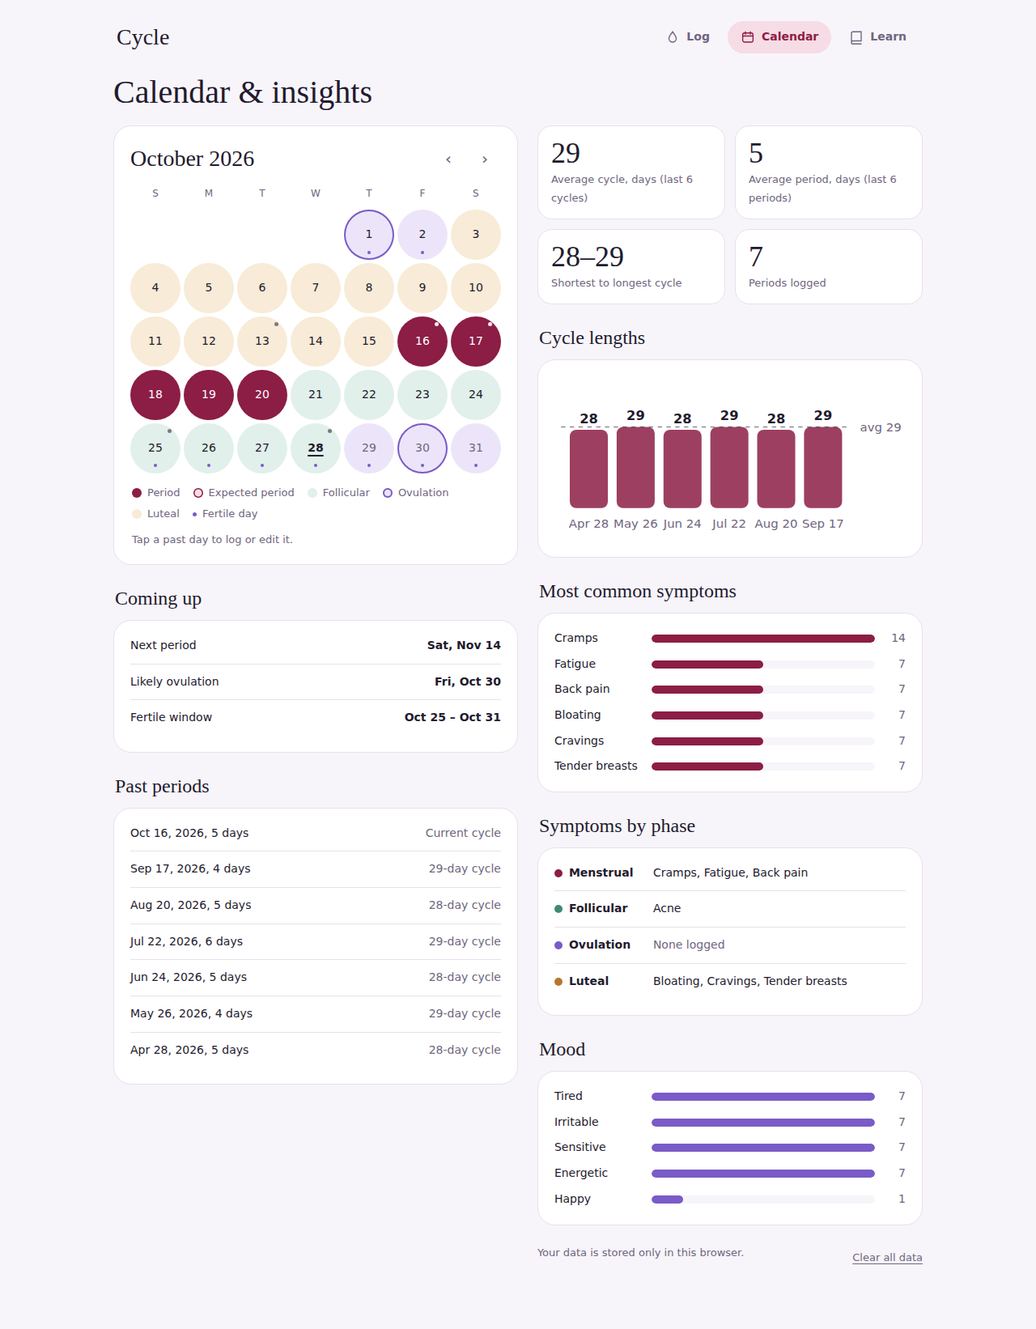
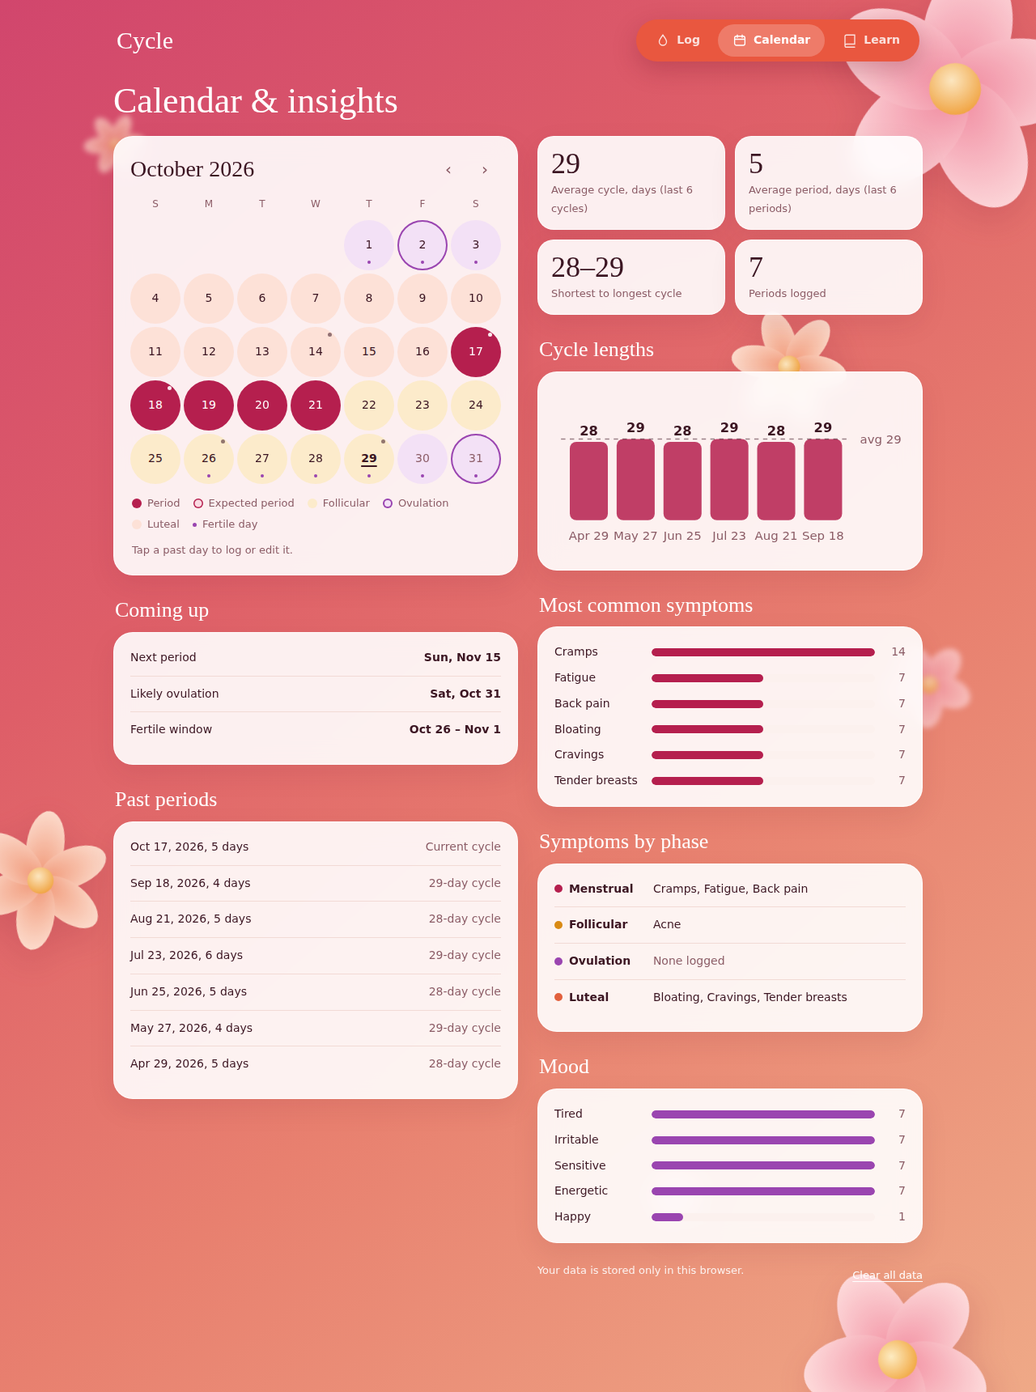
updated BG colours and design

diff --git a/index.html b/index.html
@@ -10,78 +10,117 @@
 <link rel="preconnect" href="https://fonts.gstatic.com" crossorigin>
 <link href="https://fonts.googleapis.com/css2?family=Instrument+Serif&family=Manrope:wght@400;500;600;700&display=swap" rel="stylesheet">
 <style>
+/* Palette: rose → coral → peach, after a warm gradient reference */
 :root{
-  --bg:#F7F5FA; --surface:#FFFFFF; --ink:#231A2E; --muted:#6F6580; --line:#E6E0EC;
-  --period:#8C1D45; --period-soft:#F6DCE5; --on-period:#FFFFFF;
-  --foll:#3F8A73; --foll-soft:#E1F0EA;
-  --ovu:#7A5BC7; --ovu-soft:#ECE5FA;
-  --lut:#B7772A; --lut-soft:#F8EBD7;
+  --grad:linear-gradient(140deg,#D1466D 0%,#DE5E68 32%,#E8806F 62%,#EFA987 100%);
+  --on-grad:#FFFFFF; --on-grad-soft:rgba(255,255,255,.88);
+  --card:rgba(255,255,255,.9); --card-line:rgba(255,255,255,.7);
+  --bg:#FCF1EE; --surface:#FFFFFF; --ink:#3B1522; --muted:#8B5C66; --line:#F2DAD5;
+  --accent:#E9573F; --accent-ink:#C8304F;
+  --period:#B51F4E; --period-soft:#FADAE2; --on-period:#FFFFFF;
+  --foll:#D98A14; --foll-soft:#FCEBCB;
+  --ovu:#9A45B0; --ovu-soft:#F3E1F6;
+  --lut:#E2603D; --lut-soft:#FDE1D7;
+  --track:rgba(255,255,255,.38);
+  --petal-a:#FFE0E4; --petal-b:#F38FA6; --petal-c:#FFE7D6; --petal-d:#F4A27F; --flower-o:.9;
   color-scheme:light;
   box-sizing:border-box;
   padding-top:env(safe-area-inset-top,0px);
 }
 @media (prefers-color-scheme:dark){
   :root:not([data-theme="light"]){
-    --bg:#16111C; --surface:#211A29; --ink:#F1EBF6; --muted:#A79CB4; --line:#352C40;
-    --period:#E2577F; --period-soft:#4A2132; --on-period:#1A0F15;
-    --foll:#6CC2A6; --foll-soft:#1F3530; --ovu:#A68BEA; --ovu-soft:#2E2643; --lut:#E0A65A; --lut-soft:#3A2C1C;
+    --grad:linear-gradient(140deg,#3A0F22 0%,#521A2E 40%,#682A2D 72%,#764131 100%);
+    --on-grad:#FFF3F0; --on-grad-soft:rgba(255,243,240,.82);
+    --card:rgba(40,17,27,.88); --card-line:rgba(255,255,255,.08);
+    --bg:#22101A; --surface:#2E1520; --ink:#FCEDEA; --muted:#D4A8AF; --line:#4A2834;
+    --accent:#CB4630; --accent-ink:#FF9DB2;
+    --period:#F2708F; --period-soft:#55202F; --on-period:#25070F;
+    --foll:#F2B652; --foll-soft:#46331A; --ovu:#CC8DE3; --ovu-soft:#3D2447; --lut:#F68C6C; --lut-soft:#4C2A22;
+    --track:rgba(255,255,255,.14);
+    --flower-o:.38;
     color-scheme:dark;
   }
 }
 :root[data-theme="dark"]{
-  --bg:#16111C; --surface:#211A29; --ink:#F1EBF6; --muted:#A79CB4; --line:#352C40;
-  --period:#E2577F; --period-soft:#4A2132; --on-period:#1A0F15;
-  --foll:#6CC2A6; --foll-soft:#1F3530; --ovu:#A68BEA; --ovu-soft:#2E2643; --lut:#E0A65A; --lut-soft:#3A2C1C;
+  --grad:linear-gradient(140deg,#3A0F22 0%,#521A2E 40%,#682A2D 72%,#764131 100%);
+  --on-grad:#FFF3F0; --on-grad-soft:rgba(255,243,240,.82);
+  --card:rgba(40,17,27,.88); --card-line:rgba(255,255,255,.08);
+  --bg:#22101A; --surface:#2E1520; --ink:#FCEDEA; --muted:#D4A8AF; --line:#4A2834;
+  --accent:#CB4630; --accent-ink:#FF9DB2;
+  --period:#F2708F; --period-soft:#55202F; --on-period:#25070F;
+  --foll:#F2B652; --foll-soft:#46331A; --ovu:#CC8DE3; --ovu-soft:#3D2447; --lut:#F68C6C; --lut-soft:#4C2A22;
+  --track:rgba(255,255,255,.14);
+  --flower-o:.38;
   color-scheme:dark;
 }
 *,*::before,*::after{box-sizing:inherit}
 html{scroll-padding-top:env(safe-area-inset-top,0px)}
-body{margin:0;background:var(--bg);color:var(--ink);font:400 15px/1.55 Manrope,system-ui,-apple-system,"Segoe UI",sans-serif;-webkit-font-smoothing:antialiased;padding-bottom:calc(84px + env(safe-area-inset-bottom,0px))}
+body{margin:0;background:#DE5E68;color:var(--ink);font:400 15px/1.55 Manrope,system-ui,-apple-system,"Segoe UI",sans-serif;-webkit-font-smoothing:antialiased;padding-bottom:calc(104px + env(safe-area-inset-bottom,0px))}
 button,textarea{font:inherit;color:inherit}
 button{cursor:pointer}
-:focus-visible{outline:2px solid var(--period);outline-offset:2px}
+:focus-visible{outline:2px solid var(--on-grad);outline-offset:2px}
+.card :focus-visible,.stat :focus-visible{outline-color:var(--accent-ink)}
 h1,h2,h3{font-family:"Instrument Serif",Georgia,serif;font-weight:400;margin:0;line-height:1.15}
-.serif{font-family:"Instrument Serif",Georgia,serif}
 
-/* Navigation: bottom bar on phones, top bar on wide screens */
-.tabs{position:fixed;left:0;right:0;bottom:0;z-index:10;display:flex;justify-content:center;gap:4px;background:var(--surface);border-top:1px solid var(--line);padding:8px 12px calc(8px + env(safe-area-inset-bottom,0px))}
-.tabs a{flex:1;max-width:140px;display:grid;justify-items:center;gap:2px;padding:6px 4px;border-radius:14px;text-decoration:none;color:var(--muted);font-size:12.5px;font-weight:600}
-.tabs a svg{width:22px;height:22px}
-.tabs a[aria-current="page"]{color:var(--period);background:var(--period-soft)}
+/* Background: gradient with drifting flowers */
+.bloom{position:fixed;inset:0;z-index:0;pointer-events:none;overflow:hidden;background:var(--grad)}
+.bloom svg.f{position:absolute;opacity:var(--flower-o);filter:drop-shadow(0 14px 22px rgba(140,30,60,.22));animation:drift var(--d,18s) ease-in-out infinite alternate;transform:rotate(var(--r,0deg))}
+.bloom svg.f.soft{filter:blur(3px);opacity:calc(var(--flower-o) * .7)}
+@media (max-width:819px){.bloom svg.f.wide{display:none}}
+@keyframes drift{from{transform:translateY(0) rotate(var(--r,0deg))}to{transform:translateY(-18px) rotate(calc(var(--r,0deg) + 14deg))}}
+main,.tabs{position:relative;z-index:1}
+
+/* Navigation: coral pill, bottom on phones, top on wide screens */
+.tabs{position:fixed;left:12px;right:12px;bottom:calc(12px + env(safe-area-inset-bottom,0px));z-index:10;display:flex;justify-content:center}
+.pill{display:flex;gap:4px;width:100%;max-width:420px;background:var(--accent);border-radius:999px;padding:6px;box-shadow:0 10px 30px rgba(120,20,40,.28)}
+.pill a{flex:1;display:grid;justify-items:center;gap:2px;padding:7px 4px;border-radius:999px;text-decoration:none;color:rgba(255,255,255,.82);font-size:12.5px;font-weight:600}
+.pill a svg{width:21px;height:21px}
+.pill a:hover{color:#fff}
+.pill a[aria-current="page"]{color:#fff;background:rgba(255,255,255,.22)}
 .brand{display:none}
 @media (min-width:820px){
   body{padding-bottom:40px}
-  .tabs{position:static;border:0;background:transparent;justify-content:flex-start;align-items:center;max-width:1040px;margin:0 auto;padding:24px 24px 0;gap:6px}
-  .tabs a{flex:none;max-width:none;display:flex;align-items:center;gap:8px;padding:9px 16px;border-radius:999px;font-size:14px}
-  .tabs a svg{width:18px;height:18px}
-  .brand{display:block;margin-right:auto;font-family:"Instrument Serif",Georgia,serif;font-size:28px;color:var(--ink)}
+  .tabs{position:relative;left:auto;right:auto;bottom:auto;max-width:1040px;margin:0 auto;padding:24px 24px 0;justify-content:flex-start;align-items:center}
+  .pill{width:auto;max-width:none}
+  .pill a{flex:none;display:flex;align-items:center;gap:8px;padding:9px 18px;font-size:14px}
+  .pill a svg{width:18px;height:18px}
+  .brand{display:block;margin-right:auto;font-family:"Instrument Serif",Georgia,serif;font-size:30px;color:var(--on-grad)}
 }
 
 .page{max-width:1040px;margin:0 auto;padding:24px 20px 32px}
 .page[hidden]{display:none}
-.card{background:var(--surface);border:1px solid var(--line);border-radius:22px;padding:20px}
+.card,.stat{background:var(--card);border:1px solid var(--card-line);-webkit-backdrop-filter:blur(14px);backdrop-filter:blur(14px);box-shadow:0 12px 32px rgba(120,25,45,.10)}
+.card{border-radius:24px;padding:20px}
 .muted{color:var(--muted)}
 .small{font-size:13px}
 
 /* ---------- Log page ---------- */
 .log-layout{display:grid;gap:24px}
 @media (min-width:820px){.log-layout{grid-template-columns:minmax(0,400px) minmax(0,1fr);align-items:start}}
-.hero{display:grid;justify-items:center;gap:16px;text-align:center}
+.hero{display:grid;justify-items:center;gap:16px;text-align:center;color:var(--on-grad)}
 .ring{position:relative;width:min(290px,76vw);aspect-ratio:1}
-.ring svg{width:100%;height:100%;transform:rotate(-90deg)}
-.ring .center{position:absolute;inset:0;display:grid;place-content:center;gap:4px}
-.daynum{font-family:"Instrument Serif",Georgia,serif;font-size:clamp(64px,18vw,92px);line-height:.9}
-.ring .center small{font-size:13px;color:var(--muted)}
+.ring::before{content:"";position:absolute;inset:2%;border-radius:50%;background:rgba(255,255,255,.12);box-shadow:inset 0 0 0 1px rgba(255,255,255,.25)}
+.ring svg{position:relative;width:100%;height:100%;transform:rotate(-90deg)}
+.ring .center{z-index:1;position:absolute;inset:0;display:grid;place-content:center;gap:4px}
+.daynum{font-family:"Instrument Serif",Georgia,serif;font-size:clamp(64px,18vw,92px);line-height:.9;color:var(--on-grad)}
+.ring .center small{font-size:13px;color:var(--on-grad-soft)}
 .phase-pill{justify-self:center;font-size:13px;font-weight:600;padding:3px 12px;border-radius:999px;margin-top:6px}
-.status{font-family:"Instrument Serif",Georgia,serif;font-size:24px;line-height:1.2;max-width:22ch;margin:0}
-.status em{font-style:normal;color:var(--period)}
-.primary{border:0;border-radius:999px;background:var(--period);color:var(--on-period);padding:14px 26px;font-weight:600}
-.primary.undo{background:transparent;color:var(--period);box-shadow:inset 0 0 0 1.5px var(--period)}
-.phase-now{text-align:left;width:100%}
+.ring-legend{display:grid;grid-template-columns:repeat(2,minmax(0,1fr));gap:6px;width:100%;max-width:360px;text-align:left}
+.ring-legend div{display:flex;align-items:center;gap:9px;padding:7px 12px;border-radius:14px;font-size:13.5px;line-height:1.3;background:var(--card);color:var(--ink)}
+.ring-legend i{width:12px;height:12px;border-radius:50%;flex:none}
+.ring-legend b{display:block;font-weight:600}
+.ring-legend span span{color:var(--muted);font-size:12.5px}
+.ring-legend .now{box-shadow:0 0 0 2px var(--on-grad)}
+.ring-legend .now b::after{content:" · now";font-weight:500;color:var(--muted)}
+.status{font-family:"Instrument Serif",Georgia,serif;font-size:26px;line-height:1.2;max-width:22ch;margin:0;color:var(--on-grad)}
+.status em{font-style:normal;text-decoration:underline;text-decoration-thickness:2px;text-underline-offset:5px}
+.primary{border:0;border-radius:999px;background:#fff;color:#C2264A;padding:14px 28px;font-weight:700;box-shadow:0 8px 22px rgba(120,20,40,.18)}
+.primary.undo{background:transparent;color:var(--on-grad);box-shadow:inset 0 0 0 1.5px var(--on-grad)}
+.phase-now{text-align:left;width:100%;color:var(--ink)}
 .phase-now h3{font-size:22px;margin-bottom:4px}
 .phase-now p{margin:0 0 6px}
-.phase-now a{color:var(--period);font-weight:600;font-size:14px}
-.note{font-size:12.5px;color:var(--muted);max-width:44ch;margin:0}
+.phase-now a{color:var(--accent-ink);font-weight:600;font-size:14px}
+.note{font-size:12.5px;color:var(--on-grad-soft);max-width:44ch;margin:0}
 
 .daylog{display:grid;gap:22px}
 .dayhead{display:flex;align-items:center;justify-content:space-between;gap:8px}
@@ -91,7 +130,7 @@ h1,h2,h3{font-family:"Instrument Serif",Georgia,serif;font-weight:400;margin:0;l
 .iconbtn:hover:not(:disabled){background:var(--bg);color:var(--ink)}
 .iconbtn:disabled{opacity:.3;cursor:default}
 .field h3{font-family:Manrope,system-ui,sans-serif;font-size:14px;font-weight:700;margin-bottom:10px}
-.switch{display:flex;align-items:center;justify-content:space-between;gap:12px;width:100%;border:1px solid var(--line);background:var(--bg);border-radius:16px;padding:14px 16px;text-align:left;font-weight:600}
+.switch{display:flex;align-items:center;justify-content:space-between;gap:12px;width:100%;border:1px solid var(--line);background:var(--bg);border-radius:18px;padding:14px 16px;text-align:left;font-weight:600}
 .switch .knob{width:46px;height:28px;border-radius:999px;background:var(--line);position:relative;flex:none;transition:background-color .15s}
 .switch .knob::after{content:"";position:absolute;top:3px;left:3px;width:22px;height:22px;border-radius:50%;background:var(--surface);transition:transform .15s}
 .switch[aria-checked="true"] .knob{background:var(--period)}
@@ -99,15 +138,15 @@ h1,h2,h3{font-family:"Instrument Serif",Georgia,serif;font-weight:400;margin:0;l
 .chips{display:flex;flex-wrap:wrap;gap:8px}
 .chip{border:1px solid var(--line);background:var(--surface);border-radius:999px;padding:8px 14px;font-size:14px;font-weight:500}
 .chip:hover{border-color:var(--muted)}
-.chip[aria-pressed="true"]{background:var(--ink);color:var(--surface);border-color:var(--ink)}
-textarea{width:100%;min-height:84px;resize:vertical;border:1px solid var(--line);border-radius:14px;background:var(--bg);padding:12px 14px;font-size:14px}
+.chip[aria-pressed="true"]{background:var(--accent);color:#fff;border-color:var(--accent)}
+textarea{width:100%;min-height:84px;resize:vertical;border:1px solid var(--line);border-radius:16px;background:var(--bg);padding:12px 14px;font-size:14px}
 .saved{font-size:12.5px;color:var(--muted);min-height:1.5em}
 
 /* ---------- Calendar & insights ---------- */
 .cal-layout{display:grid;gap:24px}
 @media (min-width:820px){.cal-layout{grid-template-columns:minmax(0,1.05fr) minmax(0,1fr);align-items:start}}
 .pagehead{margin:0 0 18px}
-.pagehead h1{font-size:40px}
+.pagehead h1{font-size:44px;color:var(--on-grad)}
 .cal-head{display:flex;align-items:center;justify-content:space-between;margin-bottom:10px}
 .cal-head h2{font-size:28px}
 .grid{display:grid;grid-template-columns:repeat(7,1fr);gap:4px}
@@ -132,18 +171,17 @@ textarea{width:100%;min-height:84px;resize:vertical;border:1px solid var(--line)
 .legend i{width:12px;height:12px;border-radius:50%;display:inline-block;flex:none}
 
 .stats{display:grid;grid-template-columns:repeat(2,minmax(0,1fr));gap:12px}
-.stat{background:var(--surface);border:1px solid var(--line);border-radius:18px;padding:14px 16px}
+.stat{border-radius:20px;padding:14px 16px}
 .stat b{display:block;font-family:"Instrument Serif",Georgia,serif;font-weight:400;font-size:36px;line-height:1.1}
 .stat span{font-size:13px;color:var(--muted)}
-.section-title{font-size:24px;margin:28px 2px 12px}
+.section-title{font-size:26px;margin:28px 2px 12px;color:var(--on-grad)}
 .upcoming{display:grid;gap:0}
 .upcoming div{display:flex;justify-content:space-between;gap:12px;padding:11px 0;border-top:1px solid var(--line);font-size:14px}
 .upcoming div:first-child{border-top:0;padding-top:0}
 .upcoming div span:last-child{font-weight:600;text-align:right}
 .bars{display:grid;gap:10px}
 .bar{display:grid;grid-template-columns:110px 1fr 28px;align-items:center;gap:10px;font-size:14px}
-.bar .track{height:10px;border-radius:999px;background:var(--bg);overflow:hidden}
-.bar .track{display:block}
+.bar .track{display:block;height:10px;border-radius:999px;background:var(--bg);overflow:hidden}
 .bar .fill{display:block;height:100%;border-radius:999px;background:var(--period)}
 .bar .n{text-align:right;color:var(--muted);font-variant-numeric:tabular-nums}
 .phase-table{display:grid;gap:0}
@@ -156,32 +194,60 @@ textarea{width:100%;min-height:84px;resize:vertical;border:1px solid var(--line)
 .history li span:last-child{color:var(--muted);text-align:right}
 .chart svg{width:100%;height:auto;display:block}
 .empty{color:var(--muted);font-size:14px;margin:0}
-.ghost{border:0;background:transparent;color:var(--muted);text-decoration:underline;text-underline-offset:3px;padding:6px 0;font-size:13px}
-.ghost.armed{color:var(--period);font-weight:600}
-.foot{margin-top:24px;display:flex;justify-content:space-between;gap:12px;flex-wrap:wrap;font-size:13px;color:var(--muted)}
+.ghost{border:0;background:transparent;color:var(--on-grad);text-decoration:underline;text-underline-offset:3px;padding:6px 0;font-size:13px}
+.ghost.armed{font-weight:700}
+.foot{margin-top:24px;display:flex;justify-content:space-between;gap:12px;flex-wrap:wrap;font-size:13px;color:var(--on-grad-soft)}
 
 /* ---------- Learn page ---------- */
-.learn{max-width:720px}
-.learn .lede{font-size:17px;color:var(--muted);max-width:56ch;margin:8px 0 28px}
-.phase-strip{display:grid;grid-template-columns:5fr 8fr 3fr 12fr;height:14px;border-radius:999px;overflow:hidden;margin:0 0 8px}
-.strip-labels{display:flex;flex-wrap:wrap;gap:4px 16px;font-size:13px;color:var(--muted);margin-bottom:32px}
+.learn{max-width:760px}
+.learn > h1{font-size:46px;color:var(--on-grad)}
+.learn .lede{font-size:17px;color:var(--on-grad-soft);max-width:56ch;margin:8px 0 28px}
+.phase-strip{display:grid;grid-template-columns:5fr 8fr 3fr 12fr;height:14px;border-radius:999px;overflow:hidden;margin:0 0 10px;box-shadow:0 0 0 3px rgba(255,255,255,.55)}
+.strip-labels{display:flex;flex-wrap:wrap;gap:4px 16px;font-size:13px;color:var(--on-grad);margin-bottom:28px}
 .strip-labels span{display:inline-flex;align-items:center;gap:6px}
-.strip-labels i{width:9px;height:9px;border-radius:50%}
+.strip-labels i{width:9px;height:9px;border-radius:50%;box-shadow:0 0 0 1.5px rgba(255,255,255,.8)}
+.learn-body{padding:6px 24px 24px}
 .term{padding:22px 0;border-top:1px solid var(--line)}
+.term:first-child{border-top:0}
 .term h2{font-size:28px;display:flex;align-items:center;gap:12px;margin-bottom:4px}
 .term h2 i{width:14px;height:14px;border-radius:50%;flex:none}
 .term .when{font-size:13px;font-weight:600;color:var(--muted);margin:0 0 10px}
 .term p{margin:0 0 10px;max-width:62ch}
 .term ul{margin:0;padding-left:20px;max-width:62ch}
 .term li{margin-bottom:4px}
-.disclaimer{margin-top:28px;padding:16px 18px;border-radius:16px;background:var(--surface);border:1px solid var(--line);font-size:14px;color:var(--muted)}
-@media (prefers-reduced-motion:reduce){*{transition:none!important}}
+.disclaimer{margin:8px 0 0;padding:16px 18px;border-radius:16px;background:var(--bg);font-size:14px;color:var(--muted)}
+@media (prefers-reduced-motion:reduce){*{transition:none!important}.bloom svg.f{animation:none}}
 </style>
 </head>
 <body>
+<div class="bloom" aria-hidden="true">
+  <svg width="0" height="0" style="position:absolute">
+    <defs>
+      <radialGradient id="pA" cx="50%" cy="90%" r="90%"><stop offset="0" stop-color="var(--petal-b)"/><stop offset="1" stop-color="var(--petal-a)"/></radialGradient>
+      <radialGradient id="pB" cx="50%" cy="90%" r="90%"><stop offset="0" stop-color="var(--petal-d)"/><stop offset="1" stop-color="var(--petal-c)"/></radialGradient>
+      <radialGradient id="core" cx="40%" cy="35%" r="70%"><stop offset="0" stop-color="#FFF4C9"/><stop offset="1" stop-color="#F2A93B"/></radialGradient>
+      <symbol id="fl5" viewBox="0 0 100 100">
+        <g fill="url(#pA)"><ellipse cx="50" cy="27" rx="17" ry="26"/><ellipse cx="50" cy="27" rx="17" ry="26" transform="rotate(72 50 50)"/><ellipse cx="50" cy="27" rx="17" ry="26" transform="rotate(144 50 50)"/><ellipse cx="50" cy="27" rx="17" ry="26" transform="rotate(216 50 50)"/><ellipse cx="50" cy="27" rx="17" ry="26" transform="rotate(288 50 50)"/></g>
+        <circle cx="50" cy="50" r="10" fill="url(#core)"/>
+      </symbol>
+      <symbol id="fl6" viewBox="0 0 100 100">
+        <g fill="url(#pB)"><ellipse cx="50" cy="26" rx="13" ry="24"/><ellipse cx="50" cy="26" rx="13" ry="24" transform="rotate(60 50 50)"/><ellipse cx="50" cy="26" rx="13" ry="24" transform="rotate(120 50 50)"/><ellipse cx="50" cy="26" rx="13" ry="24" transform="rotate(180 50 50)"/><ellipse cx="50" cy="26" rx="13" ry="24" transform="rotate(240 50 50)"/><ellipse cx="50" cy="26" rx="13" ry="24" transform="rotate(300 50 50)"/></g>
+        <circle cx="50" cy="50" r="9" fill="url(#core)"/>
+      </symbol>
+    </defs>
+  </svg>
+  <svg class="f " viewBox="0 0 100 100" style="right:-60px;top:-50px;width:min(320px,60vw);--r:12deg;--d:22s"><use href="#fl5"/></svg>
+  <svg class="f wide" viewBox="0 0 100 100" style="right:18%;top:22%;width:min(150px,30vw);--r:-20deg;--d:17s"><use href="#fl6"/></svg>
+  <svg class="f soft" viewBox="0 0 100 100" style="right:6%;top:46%;width:min(110px,24vw);--r:40deg;--d:19s"><use href="#fl5"/></svg>
+  <svg class="f " viewBox="0 0 100 100" style="left:-40px;top:58%;width:min(180px,38vw);--r:8deg;--d:24s"><use href="#fl6"/></svg>
+  <svg class="f " viewBox="0 0 100 100" style="right:4%;bottom:-80px;width:min(240px,50vw);--r:-30deg;--d:21s"><use href="#fl5"/></svg>
+  <svg class="f soft" viewBox="0 0 100 100" style="left:8%;top:8%;width:min(80px,18vw);--r:25deg;--d:16s"><use href="#fl6"/></svg>
+  <svg class="f " viewBox="0 0 100 100" style="right:32%;bottom:12%;width:min(70px,16vw);--r:-10deg;--d:15s"><use href="#fl5"/></svg>
+</div>
 
 <nav class="tabs" aria-label="Pages">
   <span class="brand">Cycle</span>
+  <div class="pill">
   <a href="#log" data-tab="log">
     <svg viewBox="0 0 24 24" fill="none" stroke="currentColor" stroke-width="1.8" stroke-linecap="round" aria-hidden="true"><path d="M12 3c3 4.2 6 7.6 6 11a6 6 0 0 1-12 0c0-3.4 3-6.8 6-11z"/></svg>
     Log
@@ -194,6 +260,7 @@ textarea{width:100%;min-height:84px;resize:vertical;border:1px solid var(--line)
     <svg viewBox="0 0 24 24" fill="none" stroke="currentColor" stroke-width="1.8" stroke-linecap="round" aria-hidden="true"><path d="M4 5.5A2.5 2.5 0 0 1 6.5 3H20v15H6.5A2.5 2.5 0 0 0 4 20.5zM4 20.5A2.5 2.5 0 0 0 6.5 23H20"/></svg>
     Learn
   </a>
+  </div>
 </nav>
 
 <!-- ================= LOG ================= -->
@@ -205,6 +272,7 @@ textarea{width:100%;min-height:84px;resize:vertical;border:1px solid var(--line)
         <svg viewBox="0 0 200 200" aria-hidden="true" id="ring"></svg>
         <div class="center" id="ringCenter"></div>
       </div>
+      <div class="ring-legend" id="ringLegend" aria-label="What the ring colours mean"></div>
       <p class="status" id="status"></p>
       <button class="primary" id="logToday">Log period today</button>
       <div class="card phase-now" id="phaseNow" hidden></div>
@@ -309,6 +377,7 @@ textarea{width:100%;min-height:84px;resize:vertical;border:1px solid var(--line)
   </div>
   <div class="strip-labels" aria-hidden="true"><span><i style="background:var(--period)"></i>Menstrual</span><span><i style="background:var(--foll)"></i>Follicular</span><span><i style="background:var(--ovu)"></i>Ovulation</span><span><i style="background:var(--lut)"></i>Luteal</span></div>
 
+  <div class="card learn-body">
   <article class="term">
     <h2><i style="background:var(--period)"></i>Menstrual phase</h2>
     <p class="when">Roughly days 1–5</p>
@@ -378,6 +447,7 @@ textarea{width:100%;min-height:84px;resize:vertical;border:1px solid var(--line)
   </article>
 
   <p class="disclaimer">This page is general information, not medical advice. Everyone’s cycle is different, and a doctor can help with anything that feels unusual for you.</p>
+  </div>
 </section>
 </main>
 
@@ -512,6 +582,14 @@ textarea{width:100%;min-height:84px;resize:vertical;border:1px solid var(--line)
     return `stroke-dasharray="${len} ${C}" stroke-dashoffset="${-(from / total) * C}"`;
   }
 
+  function renderLegend(ranges, current) {
+    $('ringLegend').innerHTML = PHASE_ORDER.map(p => {
+      const r = ranges && ranges[p];
+      const days = r ? (r[0] === r[1] ? `day ${r[0]}` : `days ${r[0]}–${r[1]}`) : '';
+      return `<div class="${p === current ? 'now' : ''}"><i style="background:${PHASES[p].color}"></i><span><b>${PHASES[p].name.replace(' phase','')}</b>${days ? `<span>${days}</span>` : ''}</span></div>`;
+    }).join('');
+  }
+
   function renderHero(m) {
     const svg = $('ring'), center = $('ringCenter'), status = $('status'), btn = $('logToday'), card = $('phaseNow');
     const todayIso = toIso(m.today);
@@ -521,10 +599,11 @@ textarea{width:100%;min-height:84px;resize:vertical;border:1px solid var(--line)
     const R = 86;
 
     if (!m.last) {
-      svg.innerHTML = `<circle cx="100" cy="100" r="${R}" fill="none" stroke="var(--line)" stroke-width="12"/>`;
+      svg.innerHTML = `<circle cx="100" cy="100" r="${R}" fill="none" stroke="var(--track)" stroke-width="12"/>`;
       center.innerHTML = `<small>Cycle day</small><div class="daynum">–</div>`;
       status.textContent = 'Log your most recent period to see your cycle and predictions.';
       card.hidden = true;
+      renderLegend(null, null);
       return;
     }
     const s = m.last.start;
@@ -540,14 +619,21 @@ textarea{width:100%;min-height:84px;resize:vertical;border:1px solid var(--line)
       ['var(--lut)', ovul + 1, total]
     ];
     const gap = 0.35;
-    let html = `<circle cx="100" cy="100" r="${R}" fill="none" stroke="var(--line)" stroke-width="12"/>`;
+    let html = `<circle cx="100" cy="100" r="${R}" fill="none" stroke="var(--track)" stroke-width="12"/>`;
     for (const [c, a, b] of segs) if (b > a) html += `<circle cx="100" cy="100" r="${R}" fill="none" stroke="${c}" stroke-width="12" ${arcAttrs(R, a + gap/2, b - gap/2, total)}/>`;
     const ang = ((day - 0.5) / total) * 2 * Math.PI;
-    html += `<circle cx="${100 + R * Math.cos(ang)}" cy="${100 + R * Math.sin(ang)}" r="10" fill="var(--surface)" stroke="var(--ink)" stroke-width="3"/>`;
+    const mx = 100 + R * Math.cos(ang), my = 100 + R * Math.sin(ang);
+    html += `<g transform="translate(${mx} ${my})">${[0,72,144,216,288].map(a => `<ellipse cx="0" cy="-7" rx="5.2" ry="7.5" fill="#fff" stroke="rgba(120,20,40,.18)" stroke-width="1" transform="rotate(${a})"/>`).join('')}<circle r="4.2" fill="#F5B23E" stroke="#fff" stroke-width="1.2"/></g>`;
     svg.innerHTML = html;
 
     let phase;
     if (day <= pLen) phase = 'menstrual'; else if (day < ovul - 1) phase = 'follicular'; else if (day <= ovul + 1) phase = 'ovulation'; else phase = 'luteal';
+    renderLegend({
+      menstrual: [1, pLen],
+      follicular: [pLen + 1, ovul - 2],
+      ovulation: [ovul - 1, ovul + 1],
+      luteal: [ovul + 2, total]
+    }, phase);
     const P = PHASES[phase];
     center.innerHTML = `<small>Cycle day</small><div class="daynum">${day}</div><span class="phase-pill" style="background:${P.soft};color:${P.color}">${P.name}</span>`;
 
